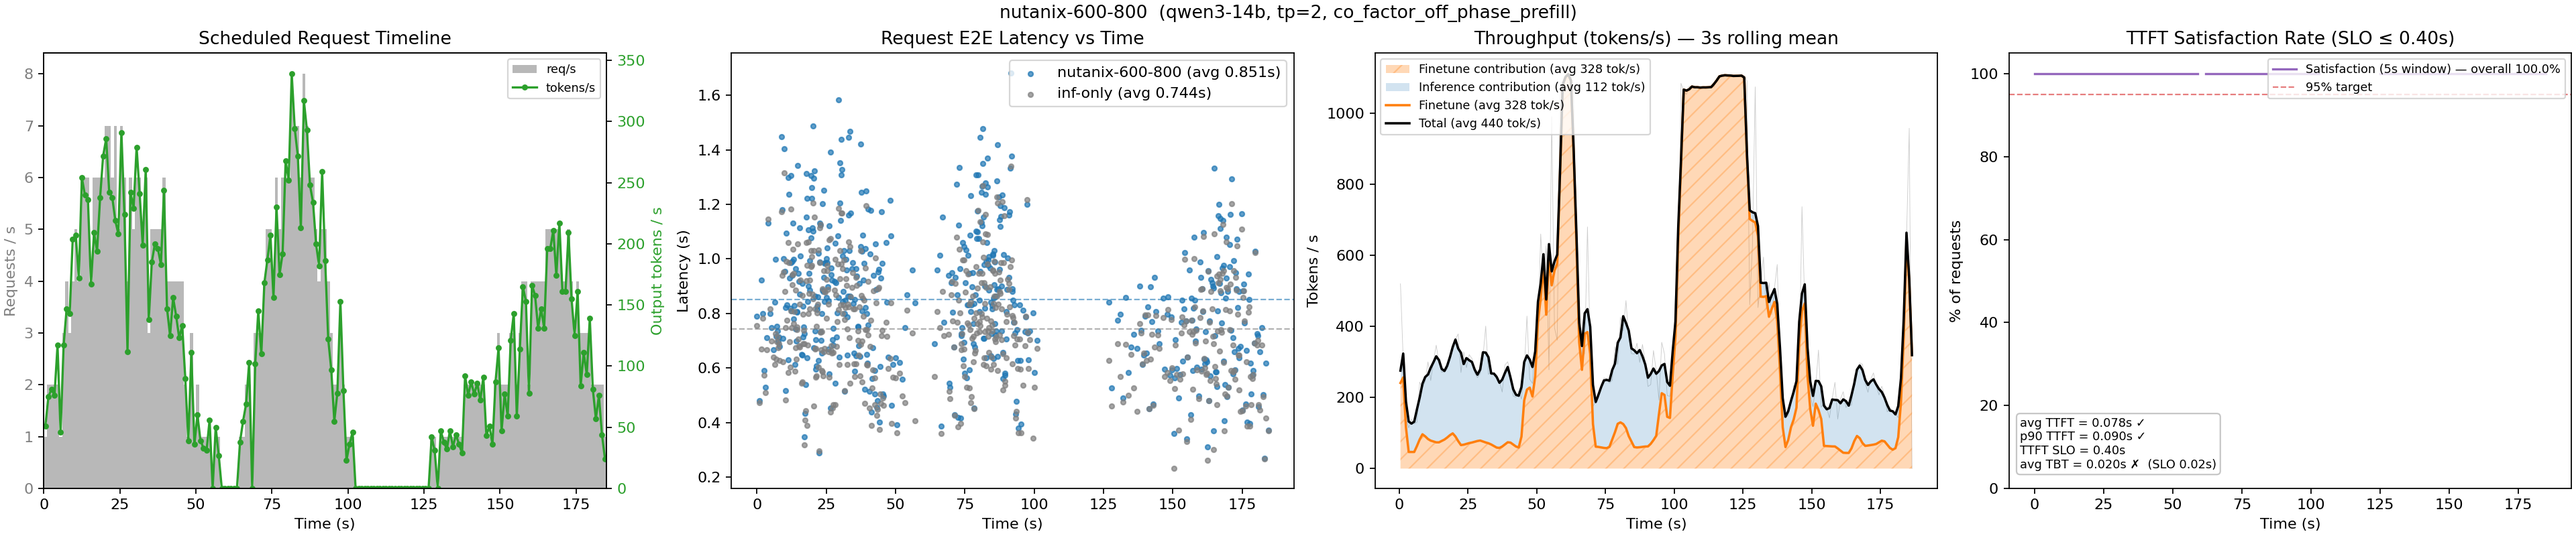
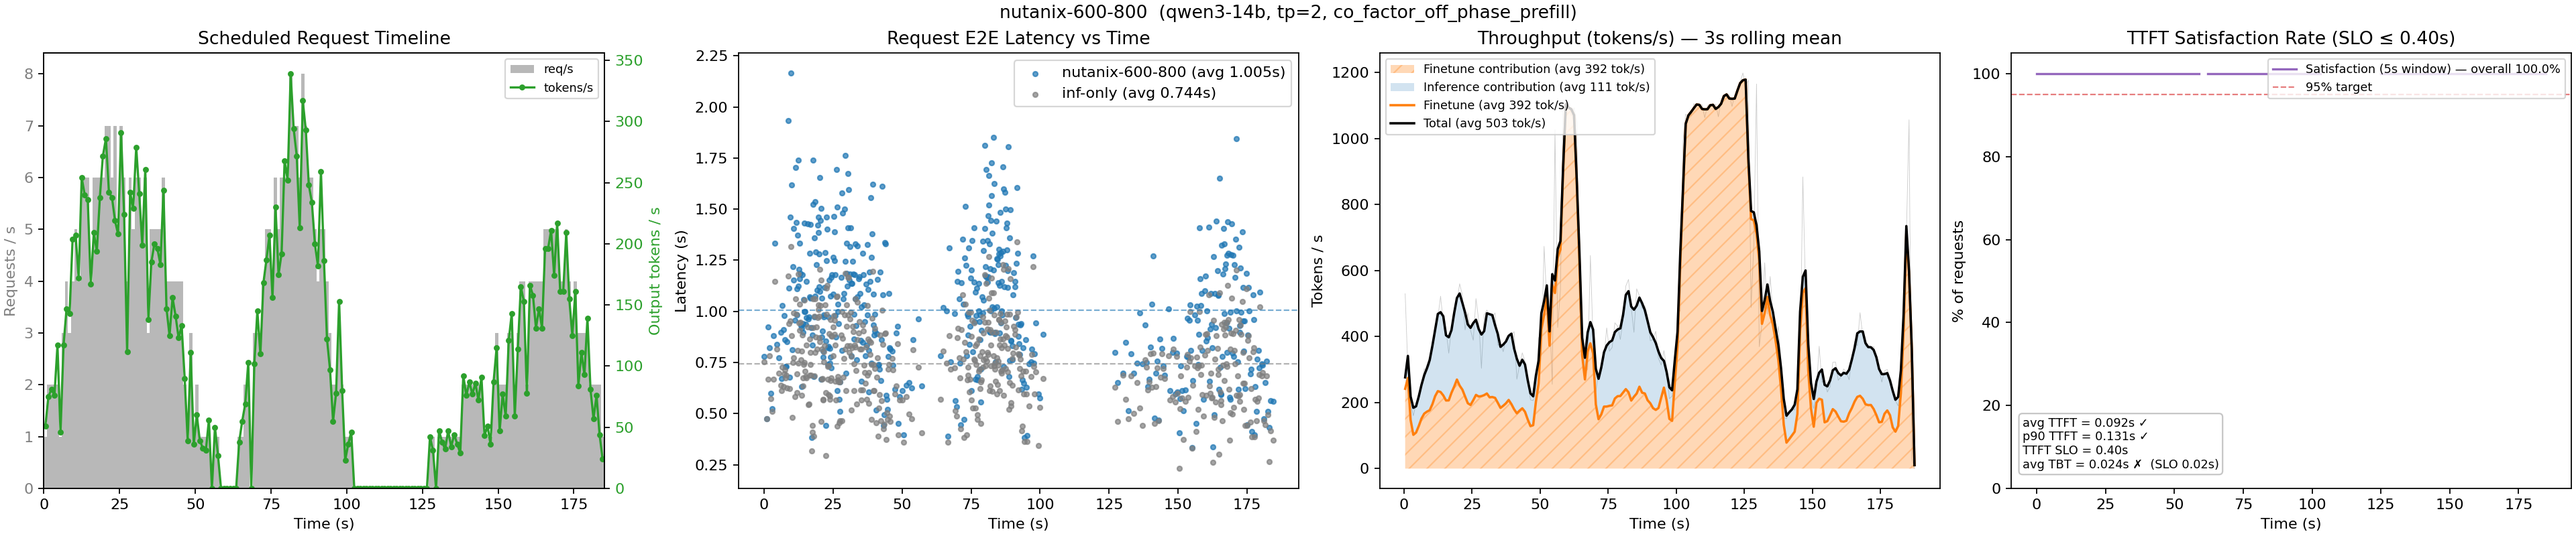
fix(mixed-fwd-cuda-graph): accumulate_final on a graph-padded output with an interleaved FT mask
Under a CUDA graph the model output is padded to the capture size while the FT mask
covers the unpadded batch; the mask-path gather in accumulate_final raised a shape
error and killed the worker (428/534 production requests). Slice to the mask's length
before masking; covered by tests/test_ft_save_op.py. Fresh plots for the three traces.

diff --git a/tests/test_ft_save_op.py b/tests/test_ft_save_op.py
@@ -268,7 +268,29 @@ def test_accumulator_op_path_matches_hooks():
     C.check("second step keeps rows 4..8 from step 1", acc.layer_in[1][4:9].float(), ref.layer_in[1][4:9].float())
 
 
+def test_accumulate_final_padded():
+    """The post-forward final_hidden / ids save on a graph-PADDED output with
+    an interleaved (mask-path) FT layout — the production crash of 2026-09-15."""
+    print("test_accumulate_final_padded:")
+    acc = FinetuneAccumulator(_Top().to(DEV).to(torch.bfloat16), S_MAX, D, DEV,
+                              torch.bfloat16, intermediate_size=INTER,
+                              q_size=HQ * HD, kv_size=HKV * HD)
+    n_unpadded, n_padded = 21, 24
+    hidden = torch.randn(n_padded, D, device=DEV, dtype=torch.bfloat16)
+    ids = torch.arange(n_padded, device=DEV)
+    mask = np.zeros(n_unpadded, dtype=bool)
+    pos = [1, 7, 15]
+    mask[pos] = True
+    acc.accumulate_final(hidden, ids, torch.from_numpy(mask).to(DEV), len(pos),
+                         offset=3, start=0, contiguous=False)
+    torch.cuda.synchronize()
+    C.check("final_hidden rows 3..5 = padded output at 1,7,15",
+            acc.final_hidden[3:6].float(), hidden[pos].float())
+    C.ok("ids follow the mask", acc.concat_input_ids[3:6].tolist() == pos)
+
+
 if __name__ == "__main__":
     test_capture_follows_index_contents()
     test_accumulator_op_path_matches_hooks()
+    test_accumulate_final_padded()
     C.finish()

diff --git a/dserve-vllm/vllm/deltaserve/accumulate.py b/dserve-vllm/vllm/deltaserve/accumulate.py
@@ -620,8 +620,13 @@ class FinetuneAccumulator:
             rows = hidden_states[start:start + num_ft]
             ids = input_ids_flat[start:start + num_ft]
         else:
-            rows = hidden_states[mask_gpu]
-            ids = input_ids_flat[mask_gpu]
+            # [mixed-fwd-cuda-graph] Under a CUDA graph the model output (and
+            # the persistent input-id buffer) is PADDED to the capture size;
+            # the mask covers the unpadded batch. Slice to the mask's length
+            # before masking (a no-op on eager steps).
+            n_mask = int(mask_gpu.shape[0])
+            rows = hidden_states[:n_mask][mask_gpu]
+            ids = input_ids_flat[:n_mask][mask_gpu]
         n = min(rows.shape[0], self.max_saved - offset)
         if n <= 0:
             return

diff --git a/MIXED_FWD_CUDA_GRAPH.md b/MIXED_FWD_CUDA_GRAPH.md
@@ -237,3 +237,14 @@ prefill, the child only runs in the decode-only windows, and the race had been g
 its first ~100 ms of each cycle unpaused. The flag ships **off**; turning it on is the
 right choice only once the backward has a deliberate GPU share during bursts (MPS, or a
 per-cycle unpaused budget, or pausing only when the prefill's TTFT slack is short).
+
+**Bug found on the rerun (2026-09-15, later): padded output vs unpadded mask.** The
+post-forward save of `final_hidden` / input ids (`accumulate_final`) indexed the model
+output with the FT boolean mask. Under a graph the output is padded to the capture size
+(192 rows for a 186-token batch) while the mask covers the unpadded batch → shape error →
+worker crash, 428 of 534 production requests failed. Only the interleaved (mask) layout is
+affected; the contiguous slice path is immune, which is why tight and loose never hit it.
+Fixed by slicing to the mask's length before masking; `tests/test_ft_save_op.py` now
+covers it (30/30). Rerun: 534/534, 100 % TTFT, FT 420 → 487 tok/s, 376 mixed steps with
+60-token samples, no tracebacks. Fresh figures for all three traces are in
+`eval-tp/plots/` and `eval-tp/output/step_trace_*.png`.
